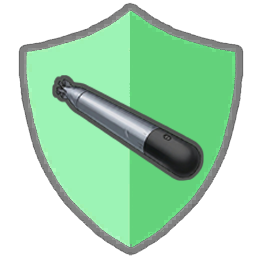
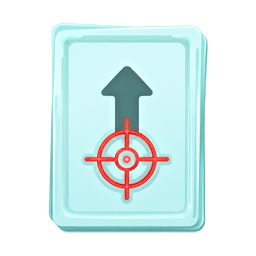
0.108 update

diff --git a/TashkentSpire2Code/Powers/DistancePower.cs b/TashkentSpire2Code/Powers/DistancePower.cs
@@ -1,6 +1,7 @@
 using Godot;
 using MegaCrit.Sts2.Core.Combat;
 using MegaCrit.Sts2.Core.Commands;
+using MegaCrit.Sts2.Core.Entities.Cards;
 using MegaCrit.Sts2.Core.Entities.Creatures;
 using MegaCrit.Sts2.Core.Entities.Players;
 using MegaCrit.Sts2.Core.Entities.Powers;
@@ -110,6 +111,8 @@ public sealed class DistancePower : TashkentPower, IPersistentPower
     
     public override async Task AfterSideTurnStart(CombatSide side, IReadOnlyList<Creature> participants, ICombatState combatState)
     {
+        if (base.Owner.Player == null) return;
+        
         if (!participants.Contains(base.Owner) && HasActiveSandpit())
         {
             _isSyncing = true;  // 加锁
@@ -120,9 +123,9 @@ public sealed class DistancePower : TashkentPower, IPersistentPower
         }
     }
     
-    public override decimal ModifyDamageMultiplicative(Creature? target, decimal amount, ValueProp props, Creature? dealer, CardModel? cardSource)
+    public override decimal ModifyDamageMultiplicative(Creature? target, decimal amount, ValueProp props, Creature? dealer, CardModel? cardSource, CardPlay? cardPlay)
     {
-        if (dealer == this.Owner && (!props.HasFlag(ValueProp.Move) || cardSource == null))
+        if (dealer == this.Owner && !props.IsPoweredAttack())
             return 1m;
 
         int dist = (int)base.Amount; 
@@ -171,7 +174,7 @@ public sealed class DistancePower : TashkentPower, IPersistentPower
                 if (!_isSyncing)
                 {
                     _isSyncing = true;
-                    await SyncSandpitPower(deltaDist);
+                    await SyncSandpitPower(-deltaDist);
                     _isSyncing = false;
                 }
 
@@ -200,18 +203,29 @@ public sealed class DistancePower : TashkentPower, IPersistentPower
     
     private async Task SyncSandpitPower(int delta)
     {
-        var sandpitEnemies = base.CombatState?.Enemies.Where(c => c.HasPower<SandpitPower>());
-    
-        if (sandpitEnemies == null) return;
-
-        foreach (var enemy in sandpitEnemies)
+        if (base.Owner.Player != null)
         {
-            var sandpitPower = enemy.Powers.OfType<SandpitPower>()
-                .FirstOrDefault(s => s.Target == base.Owner);
+            var sandpitEnemies = base.CombatState?.Enemies.Where(c => c.HasPower<SandpitPower>());
+            if (sandpitEnemies == null) return;
 
+            foreach (var enemy in sandpitEnemies)
+            {
+                var sandpitPower = enemy.Powers.OfType<SandpitPower>()
+                    .FirstOrDefault(s => s.Target == base.Owner);
+
+                if (sandpitPower != null)
+                {
+                    await PowerCmd.ModifyAmount(new ThrowingPlayerChoiceContext(), sandpitPower, (decimal)delta, enemy, null);
+                }
+            }
+        }
+
+        else
+        {
+            var sandpitPower = base.Owner.Powers.OfType<SandpitPower>().FirstOrDefault();
             if (sandpitPower != null)
             {
-                await PowerCmd.ModifyAmount(new ThrowingPlayerChoiceContext(), sandpitPower, -(decimal)delta, enemy, null);
+                await PowerCmd.ModifyAmount(new ThrowingPlayerChoiceContext(), sandpitPower, (decimal)delta, base.Owner, null);
             }
         }
     }
@@ -232,11 +246,22 @@ public sealed class DistancePower : TashkentPower, IPersistentPower
     private async Task UpdateCreaturePositions(int delta)
     {
         if (delta == 0) return;
-        var surrounded = base.Owner.GetPower<SurroundedPower>();
-        bool isFacingLeft = surrounded != null && surrounded.Facing == SurroundedPower.Direction.Left;
+        
+        bool isFacingLeft;
 
+        if (base.Owner.Player != null)
+        {
+            var surrounded = base.Owner.GetPower<SurroundedPower>();
+            isFacingLeft = surrounded != null && surrounded.Facing == SurroundedPower.Direction.Left;
+        }
+        else
+        {
+            bool hasBackAttackLeft = base.Owner.HasPower<BackAttackLeftPower>();
+            isFacingLeft = !hasBackAttackLeft;
+        }
+        
         float moveDir = isFacingLeft ? -1f : 1f;
-        float moveDistance = delta * 50f * moveDir;
+        float moveDistance = delta * 40f * moveDir;
 
         Tween? tween = null;
         foreach (Creature creature in GetOwnerAndPets())

diff --git a/TashkentSpire2Code/Cards/Rare/Repel.cs b/TashkentSpire2Code/Cards/Rare/Repel.cs
@@ -1,36 +1,39 @@
 using MegaCrit.Sts2.Core.Commands;
 using MegaCrit.Sts2.Core.Entities.Cards;
+using MegaCrit.Sts2.Core.Entities.Creatures;
 using MegaCrit.Sts2.Core.GameActions.Multiplayer;
 using MegaCrit.Sts2.Core.Localization.DynamicVars;
 using MegaCrit.Sts2.Core.ValueProps;
 using TashkentSpire2.TashkentSpire2Code.Powers;
 
-namespace TashkentSpire2.TashkentSpire2Code.Cards.Common;
+namespace TashkentSpire2.TashkentSpire2Code.Cards.Rare;
 
-public sealed class EasyPrey() : TashkentCard(1, CardType.Attack, CardRarity.Common, TargetType.AnyEnemy)
+public sealed class Repel() : TashkentCard(2, CardType.Attack, CardRarity.Rare, TargetType.AllEnemies)
 {
     protected override IEnumerable<DynamicVar> CanonicalVars => [
-        new DamageVar(4M, ValueProp.Move),
-        new MarkDynamicVar(3M),
-        new RepeatVar(2)
+        new DamageVar(15M, ValueProp.Move),
+        new RetreatDynamicVar(2M)
     ];
-    
+
+    public override IEnumerable<CardKeyword> CanonicalKeywords => [CardKeyword.Exhaust];
+
     protected override async Task OnPlay(PlayerChoiceContext choiceContext, CardPlay cardPlay)
     {
-        ArgumentNullException.ThrowIfNull(cardPlay.Target, nameof(cardPlay.Target));
         ArgumentNullException.ThrowIfNull(CombatState);
-        
-        await PowerCmd.Apply<MarkPower>(choiceContext, cardPlay.Target, base.DynamicVars["TashkentSpire2-Mark"].BaseValue, base.Owner.Creature, this);
         await DamageCmd.Attack(DynamicVars.Damage.BaseValue)
-            .WithHitCount(DynamicVars.Repeat.IntValue)
             .FromCard(this, cardPlay)
             .TargetingAllOpponents(CombatState)
             .WithHitFx("vfx/vfx_attack_slash")
             .Execute(choiceContext);
+        
+        foreach (Creature hittableEnemy in base.CombatState.HittableEnemies)
+        {
+            await PowerCmd.Apply<DistancePower>(choiceContext, hittableEnemy, -base.DynamicVars["TashkentSpire2-Retreat"].BaseValue, base.Owner.Creature, this);
+        }
     }
-    
+
     protected override void OnUpgrade()
     {
-        DynamicVars.Damage.UpgradeValueBy(2M);
+        DynamicVars.Damage.UpgradeValueBy(5M);
     }
 }

diff --git a/TashkentSpire2Code/Cards/Uncommon/AllRounder.cs b/TashkentSpire2Code/Cards/Uncommon/AllRounder.cs
@@ -1,7 +1,6 @@
 using MegaCrit.Sts2.Core.Commands;
 using MegaCrit.Sts2.Core.Entities.Cards;
 using MegaCrit.Sts2.Core.GameActions.Multiplayer;
-using MegaCrit.Sts2.Core.HoverTips;
 using MegaCrit.Sts2.Core.Localization.DynamicVars;
 using TashkentSpire2.TashkentSpire2Code.Powers;
 
@@ -10,12 +9,8 @@ namespace TashkentSpire2.TashkentSpire2Code.Cards.Uncommon;
 public sealed class AllRounder() : TashkentCard(1, CardType.Power, CardRarity.Uncommon, TargetType.Self)
 {
     protected override IEnumerable<DynamicVar> CanonicalVars => [
-        new PowerVar<AllRounderPower>(1M)
-    ];
-    
-    protected override IEnumerable<IHoverTip> ExtraHoverTips => [
-        HoverTipFactory.FromPower<TorpedoPower>(),
-        HoverTipFactory.FromPower<SmokePower>()
+        new PowerVar<AllRounderPower>(1M),
+        new MarkDynamicVar(0M)
     ];
     
     protected override async Task OnPlay(PlayerChoiceContext choiceContext, CardPlay cardPlay)
@@ -26,6 +21,6 @@ public sealed class AllRounder() : TashkentCard(1, CardType.Power, CardRarity.Un
     
     protected override void OnUpgrade()
     {
-        AddKeyword(CardKeyword.Innate);
+        DynamicVars["AllRounderPower"].UpgradeValueBy(1M);
     }
 }

diff --git a/TashkentSpire2Code/Powers/AllRounderPower.cs b/TashkentSpire2Code/Powers/AllRounderPower.cs
@@ -1,4 +1,9 @@
-using MegaCrit.Sts2.Core.Entities.Powers;
+using MegaCrit.Sts2.Core.Commands;
+using MegaCrit.Sts2.Core.Entities.Creatures;
+using MegaCrit.Sts2.Core.Entities.Powers;
+using MegaCrit.Sts2.Core.GameActions.Multiplayer;
+using MegaCrit.Sts2.Core.HoverTips;
+using MegaCrit.Sts2.Core.Models;
 
 namespace TashkentSpire2.TashkentSpire2Code.Powers;
 
@@ -11,4 +16,15 @@ public sealed class AllRounderPower : TashkentPower
         "res://TashkentSpire2/images/powers/big/AllRounderPower.png";
     public override string CustomPackedIconPath =>
         "res://TashkentSpire2/images/powers/packed/AllRounderPower.png";
+    
+    protected override IEnumerable<IHoverTip> ExtraHoverTips => [HoverTipFactory.FromPower<MarkPower>()];
+
+    public override async Task AfterPowerAmountChanged(PlayerChoiceContext choiceContext, PowerModel power, decimal amount, Creature? applier, CardModel? cardSource)
+    {
+        if (!(amount <= 0m) && applier == base.Owner && power is MarkPower && base.Owner.Player != null)
+        {
+            Flash();
+            await CardPileCmd.Draw(choiceContext, base.Amount, base.Owner.Player);
+        }
+    }
 }

diff --git a/TashkentSpire2Code/Powers/PincerMovementPower.cs b/TashkentSpire2Code/Powers/PincerMovementPower.cs
@@ -1,5 +1,6 @@
 using MegaCrit.Sts2.Core.Combat;
 using MegaCrit.Sts2.Core.Commands;
+using MegaCrit.Sts2.Core.Entities.Cards;
 using MegaCrit.Sts2.Core.Entities.Creatures;
 using MegaCrit.Sts2.Core.Entities.Powers;
 using MegaCrit.Sts2.Core.Models;
@@ -17,7 +18,7 @@ public sealed class PincerMovementPower : TashkentPower
     public override string CustomPackedIconPath => 
         "res://TashkentSpire2/images/powers/packed/PincerMovementPower.png";
 
-    public override decimal ModifyDamageMultiplicative(Creature? target, decimal amount, ValueProp props, Creature? dealer, CardModel? cardSource)
+    public override decimal ModifyDamageMultiplicative(Creature? target, decimal amount, ValueProp props, Creature? dealer, CardModel? cardSource, CardPlay? cardPlay)
     {
         if (dealer != this.Owner || this.Owner?.CombatState == null || props.HasFlag(ValueProp.Move))
             return 1M;

diff --git a/TashkentSpire2Code/Powers/MarkPower.cs b/TashkentSpire2Code/Powers/MarkPower.cs
@@ -1,4 +1,5 @@
 using MegaCrit.Sts2.Core.Commands;
+using MegaCrit.Sts2.Core.Entities.Cards;
 using MegaCrit.Sts2.Core.Entities.Creatures;
 using MegaCrit.Sts2.Core.Entities.Players;
 using MegaCrit.Sts2.Core.Entities.Powers;
@@ -18,7 +19,7 @@ public sealed class MarkPower : TashkentPower
     public override string CustomPackedIconPath => 
         "res://TashkentSpire2/images/powers/packed/mark_power.png";
     
-    public override decimal ModifyDamageAdditive(Creature? target, decimal amount, ValueProp props, Creature? dealer, CardModel? cardSource)
+    public override decimal ModifyDamageAdditive(Creature? target, decimal amount, ValueProp props, Creature? dealer, CardModel? cardSource, CardPlay? cardPlay)
     {
         if (target != base.Owner || !props.HasFlag(ValueProp.Move))
             return 0m;

diff --git a/TashkentSpire2Code/Cards/Rare/Vibrant.cs b/TashkentSpire2Code/Cards/Rare/Vibrant.cs
@@ -48,7 +48,7 @@ public class Vibrant() : TashkentCard(1, CardType.Skill, CardRarity.Rare, Target
             {
                 Log.Warn(base.Id.Entry + " exhausted attack card " + card.Id.Entry + " that did not have an appropriate damage var!");
             }
-            damage = Hook.ModifyDamage(base.Owner.RunState, base.Owner.Creature.CombatState, null, base.Owner.Creature, damage, ValueProp.Move, card, ModifyDamageHookType.All, CardPreviewMode.None, out IEnumerable<AbstractModel> _);
+            damage = Hook.ModifyDamage(base.Owner.RunState, base.Owner.Creature.CombatState, null, base.Owner.Creature, damage, ValueProp.Move, card, null, ModifyDamageHookType.All, CardPreviewMode.None, out IEnumerable<AbstractModel> _);
             await CardCmd.Exhaust(choiceContext, card);
         }
         

diff --git a/TashkentSpire2Code/Powers/SmokePower.cs b/TashkentSpire2Code/Powers/SmokePower.cs
@@ -1,4 +1,5 @@
 using MegaCrit.Sts2.Core.Commands;
+using MegaCrit.Sts2.Core.Entities.Cards;
 using MegaCrit.Sts2.Core.Entities.Creatures;
 using MegaCrit.Sts2.Core.Entities.Powers;
 using MegaCrit.Sts2.Core.GameActions.Multiplayer;
@@ -18,7 +19,7 @@ public sealed class SmokePower : TashkentPower
         "res://TashkentSpire2/images/powers/packed/SmokePower.png";
     
     public override decimal ModifyDamageMultiplicative(Creature? target, decimal amount, ValueProp props,
-        Creature? dealer, CardModel? cardSource)
+        Creature? dealer, CardModel? cardSource, CardPlay? cardPlay)
     {
         if (target == base.Owner && props.HasFlag(ValueProp.Move))
         {

diff --git a/TashkentSpire2Code/Powers/TorpedoPower.cs b/TashkentSpire2Code/Powers/TorpedoPower.cs
@@ -131,12 +131,6 @@ public sealed class TorpedoPower : TashkentPower, IHasSecondAmount
 
         if (Owner != null && Owner.Player != null)
         {
-            int smokeCount = Owner.GetPower<AllRounderPower>() is { } allRounder ? (int)allRounder.Amount : 0;
-            if (smokeCount > 0)
-            {
-                await PowerCmd.Apply<SmokePower>(new ThrowingPlayerChoiceContext(), Owner, smokeCount, Owner, null); 
-            }
-            
             foreach (var device in Owner.Player.Relics.OfType<TorpedoRecoilDevice>())
             {
                 await device.TryTriggerBlock(); 

diff --git a/TashkentSpire2Code/Cards/Uncommon/FullSalvo.cs b/TashkentSpire2Code/Cards/Uncommon/FullSalvo.cs
@@ -23,7 +23,7 @@ public sealed class FullSalvo() : TashkentCard(2, CardType.Attack, CardRarity.Un
     protected override async Task OnPlay(PlayerChoiceContext choiceContext, CardPlay cardPlay)
     {
         ArgumentNullException.ThrowIfNull(cardPlay.Target, "cardPlay.Target");
-        await DamageCmd.Attack(base.DynamicVars.Damage.BaseValue).FromCard(this).Targeting(cardPlay.Target)
+        await DamageCmd.Attack(base.DynamicVars.Damage.BaseValue).FromCard(this, cardPlay).Targeting(cardPlay.Target)
             .WithHitFx("vfx/vfx_attack_slash")
             .Execute(choiceContext);
         

diff --git a/TashkentSpire2Code/Cards/Rare/CoreBreakdown.cs b/TashkentSpire2Code/Cards/Rare/CoreBreakdown.cs
@@ -25,7 +25,7 @@ public sealed class CoreBreakdown() : TashkentCard(3, CardType.Attack, CardRarit
     {
         ArgumentNullException.ThrowIfNull(cardPlay.Target, nameof(cardPlay.Target));
 
-        AttackCommand attackCommand = await DamageCmd.Attack(base.DynamicVars.Damage.BaseValue).FromCard(this).Targeting(cardPlay.Target)
+        AttackCommand attackCommand = await DamageCmd.Attack(base.DynamicVars.Damage.BaseValue).FromCard(this, cardPlay).Targeting(cardPlay.Target)
             .WithHitFx("vfx/vfx_attack_blunt", null, "heavy_attack.mp3")
             .Execute(choiceContext);
         

diff --git a/TashkentSpire2Code/Cards/Uncommon/SuppleAsAWave.cs b/TashkentSpire2Code/Cards/Uncommon/SuppleAsAWave.cs
@@ -19,7 +19,7 @@ public sealed class SuppleAsAWave() : TashkentCard(1, CardType.Attack, CardRarit
         ArgumentNullException.ThrowIfNull(cardPlay.Target, nameof(cardPlay.Target));
         await PowerCmd.Apply<DistancePower>(choiceContext, base.Owner.Creature, base.DynamicVars["TashkentSpire2-Charge"].BaseValue, base.Owner.Creature, this);
         await DamageCmd.Attack(DynamicVars.Damage.BaseValue)
-            .FromCard(this)
+            .FromCard(this, cardPlay)
             .Targeting(cardPlay.Target)
             .WithHitFx("vfx/vfx_attack_slash")
             .Execute(choiceContext);
